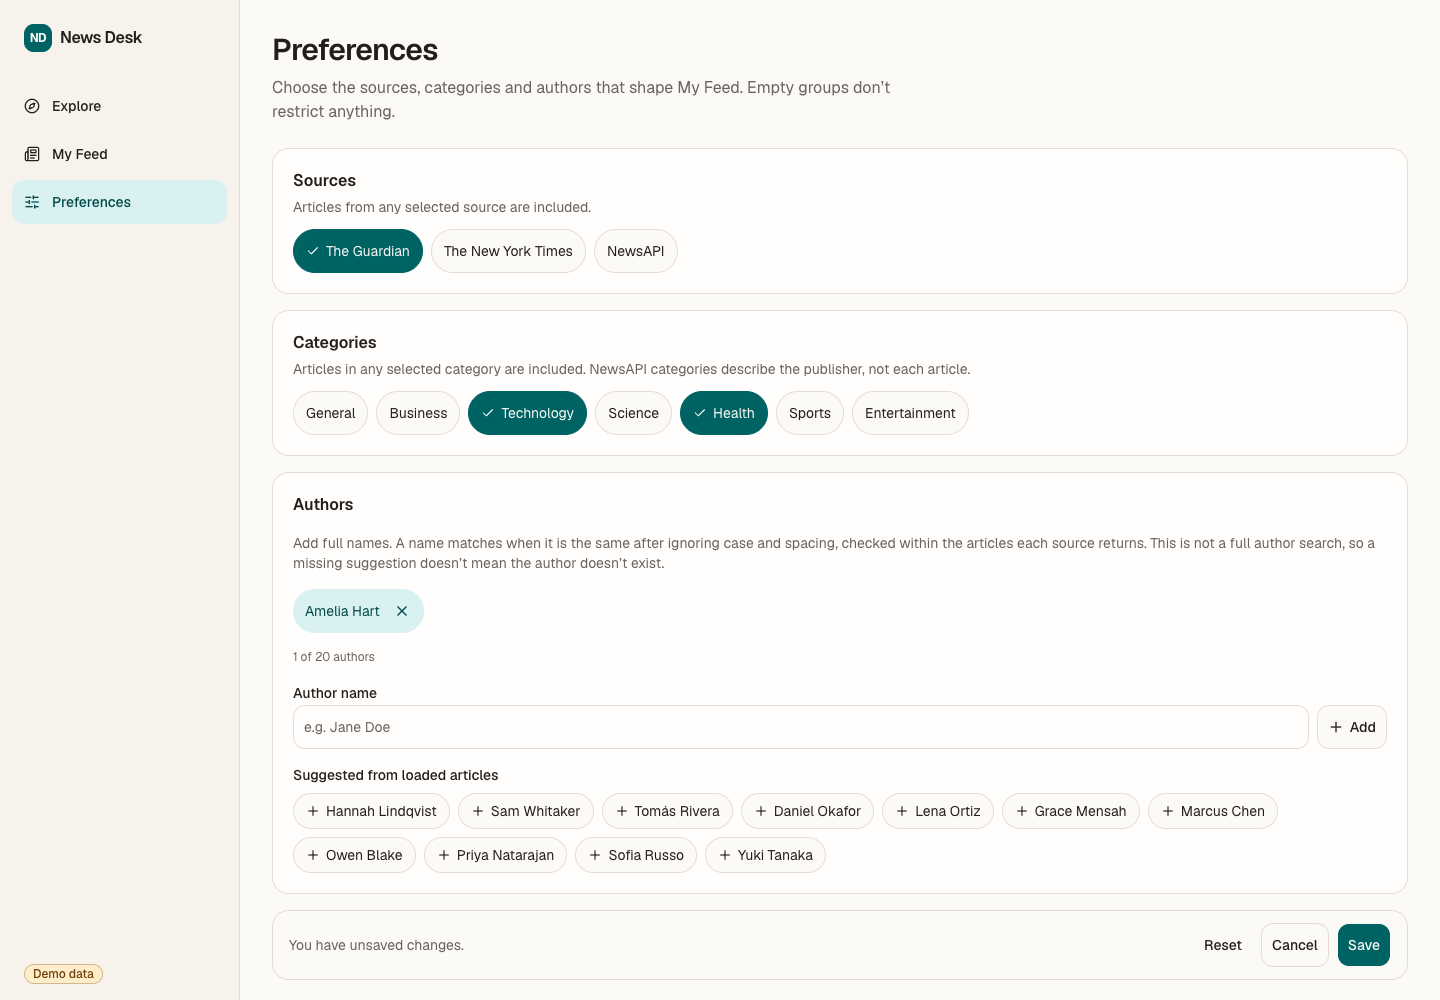
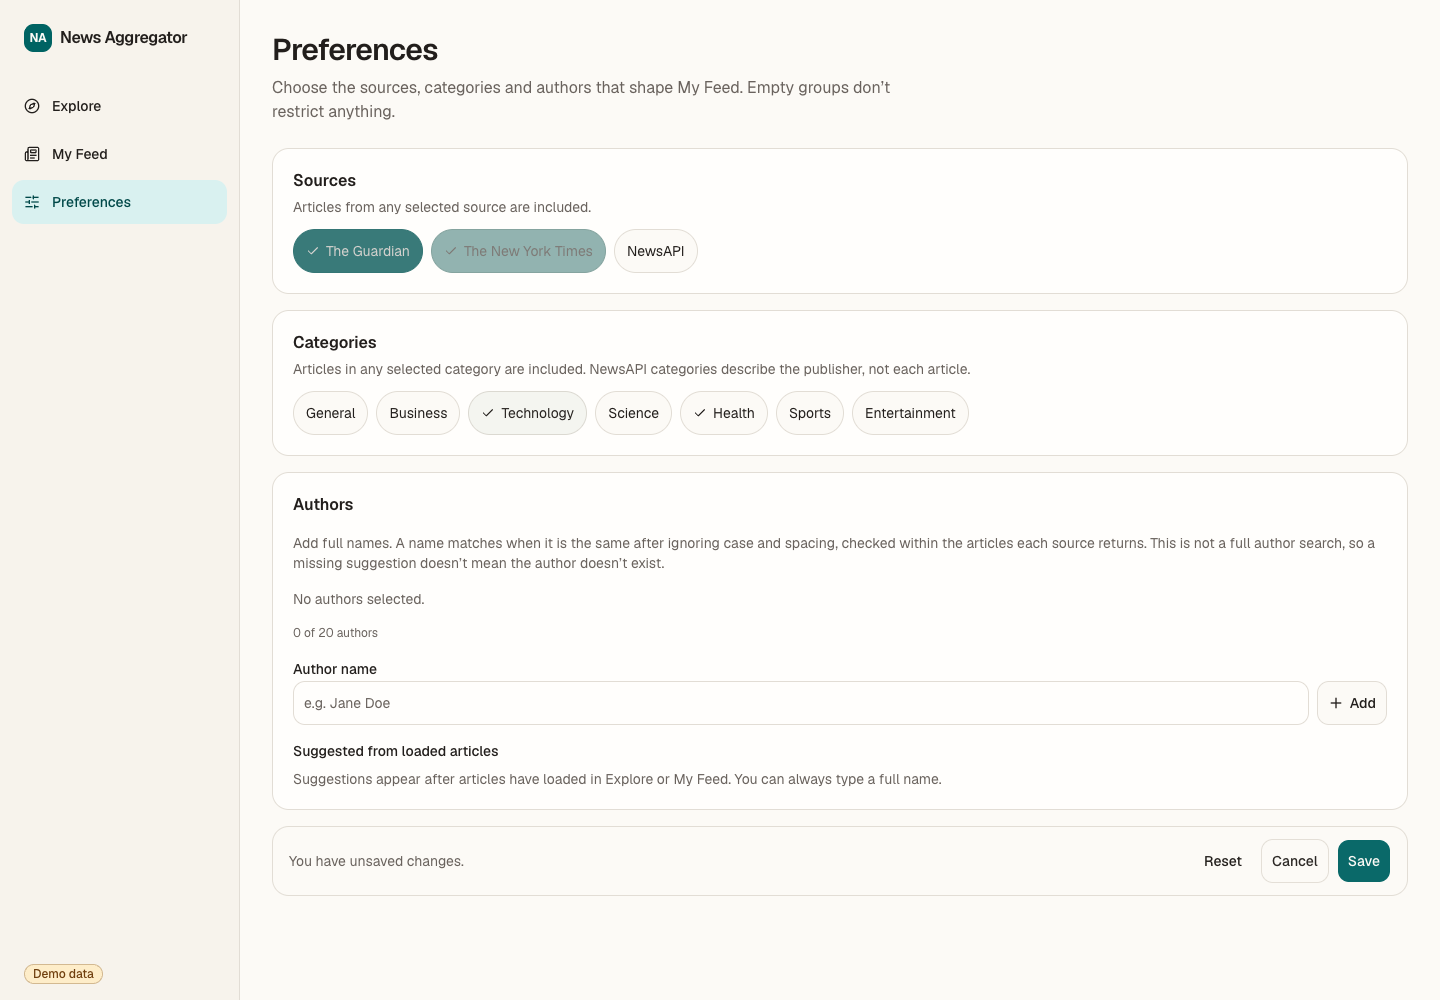
chore: rename the app to News Aggregator

diff --git a/e2e/shell.spec.ts b/e2e/shell.spec.ts
@@ -27,7 +27,7 @@ test('redirects the root path to Explore in Demo mode', async ({ page }) => {
   await expect(
     page.getByText('Demo data').filter({ visible: true }),
   ).toBeVisible()
-  await expect(page).toHaveTitle('Explore · News Desk')
+  await expect(page).toHaveTitle('Explore · News Aggregator')
 })
 
 test('serves deep links and supports Back/Forward', async ({
@@ -66,7 +66,7 @@ test('mobile navigation sheet closes after choosing a page', async ({
 
   const trigger = page.getByRole('button', { name: 'Open navigation' })
   await trigger.click()
-  const sheet = page.getByRole('dialog', { name: 'News Desk' })
+  const sheet = page.getByRole('dialog', { name: 'News Aggregator' })
   await expect(sheet).toBeVisible()
 
   await page.keyboard.press('Escape')

diff --git a/src/server/app.test.ts b/src/server/app.test.ts
@@ -54,7 +54,7 @@ describe('unknown API routes', () => {
 })
 
 describe('client build serving', () => {
-  const clientDir = mkdtempSync(path.join(tmpdir(), 'news-desk-client-'))
+  const clientDir = mkdtempSync(path.join(tmpdir(), 'news-aggregator-client-'))
   mkdirSync(path.join(clientDir, 'assets'))
   writeFileSync(path.join(clientDir, 'index.html'), '<div id="root"></div>')
   writeFileSync(path.join(clientDir, 'assets', 'app.js'), 'console.log(1)')

diff --git a/src/server/index.ts b/src/server/index.ts
@@ -23,7 +23,7 @@ const app = createApp(config, {
 
 const server = app.listen(config.port, () => {
   console.log(
-    `News Desk server listening on port ${config.port} (${config.mode} mode${hasClientBuild ? ', serving client build' : ', API only'})`,
+    `News Aggregator server listening on port ${config.port} (${config.mode} mode${hasClientBuild ? ', serving client build' : ', API only'})`,
   )
 })
 

diff --git a/src/client/features/articles/feed-messages.ts b/src/client/features/articles/feed-messages.ts
@@ -42,7 +42,7 @@ export interface FeedErrorDescription {
 export function describeFeedError(error: unknown): FeedErrorDescription {
   if (!(error instanceof ApiError)) {
     return {
-      title: 'Couldn’t reach the News Desk server.',
+      title: 'Couldn’t reach the News Aggregator server.',
       details: ['Check your connection and try again.'],
       recovery: 'retry',
     }

diff --git a/src/client/index.css b/src/client/index.css
@@ -3,7 +3,7 @@
 @import 'shadcn/tailwind.css';
 @import '@fontsource-variable/geist';
 
-/* News Desk is light-only: warm surfaces, charcoal text, restrained deep teal. */
+/* News Aggregator is light-only: warm surfaces, charcoal text, restrained deep teal. */
 @theme inline {
   --font-heading: var(--font-sans);
   --font-sans: 'Geist Variable', ui-sans-serif, system-ui, sans-serif;

diff --git a/src/client/features/articles/ArticleFeed.tsx b/src/client/features/articles/ArticleFeed.tsx
@@ -31,7 +31,7 @@ export function ArticleFeed(props: ArticleFeedProps) {
   if (feedMode.state === 'error') {
     return (
       <FeedErrorPanel
-        title="Couldn’t reach the News Desk server."
+        title="Couldn’t reach the News Aggregator server."
         details={['Articles can’t be loaded until the server responds.']}
         onRetry={feedMode.retry}
       />

diff --git a/src/client/components/layout/MobileNav.tsx b/src/client/components/layout/MobileNav.tsx
@@ -24,7 +24,7 @@ export function MobileNav() {
       </SheetTrigger>
       <SheetContent side="left" className="w-72 bg-sidebar">
         <SheetHeader>
-          <SheetTitle>News Desk</SheetTitle>
+          <SheetTitle>News Aggregator</SheetTitle>
           <SheetDescription className="sr-only">
             Navigate between sections.
           </SheetDescription>

diff --git a/src/client/components/layout/PageHeader.tsx b/src/client/components/layout/PageHeader.tsx
@@ -6,7 +6,7 @@ interface PageHeaderProps {
 export function PageHeader({ title, description }: PageHeaderProps) {
   return (
     <header className="mb-6 max-w-2xl">
-      <title>{`${title} · News Desk`}</title>
+      <title>{`${title} · News Aggregator`}</title>
       <h1 className="text-2xl font-semibold tracking-tight sm:text-3xl">
         {title}
       </h1>

diff --git a/src/client/pages/NotFoundPage.tsx b/src/client/pages/NotFoundPage.tsx
@@ -7,7 +7,7 @@ export function NotFoundPage() {
     <>
       <PageHeader
         title="Page not found"
-        description="This address does not match any page in News Desk."
+        description="This address does not match any page in News Aggregator."
       />
       <Button asChild size="lg">
         <Link to="/explore">Go to Explore</Link>

diff --git a/src/client/features/explore/ExplorePage.test.tsx b/src/client/features/explore/ExplorePage.test.tsx
@@ -623,7 +623,7 @@ describe('Explore empty and error states', () => {
     await renderExplore()
 
     expect(
-      await screen.findByText('Couldn’t reach the News Desk server.'),
+      await screen.findByText('Couldn’t reach the News Aggregator server.'),
     ).toBeInTheDocument()
     expect(feedRequests).toHaveLength(0)
   })

diff --git a/index.html b/index.html
@@ -4,7 +4,7 @@
     <meta charset="UTF-8" />
     <link rel="icon" type="image/svg+xml" href="/favicon.svg" />
     <meta name="viewport" content="width=device-width, initial-scale=1.0" />
-    <title>News Desk</title>
+    <title>News Aggregator</title>
   </head>
   <body>
     <div id="root"></div>

diff --git a/src/client/components/layout/Brand.tsx b/src/client/components/layout/Brand.tsx
@@ -10,9 +10,9 @@ export function Brand() {
         aria-hidden="true"
         className="grid size-7 place-items-center rounded-md bg-primary text-xs font-bold text-primary-foreground"
       >
-        ND
+        NA
       </span>
-      News Desk
+      News Aggregator
     </Link>
   )
 }
